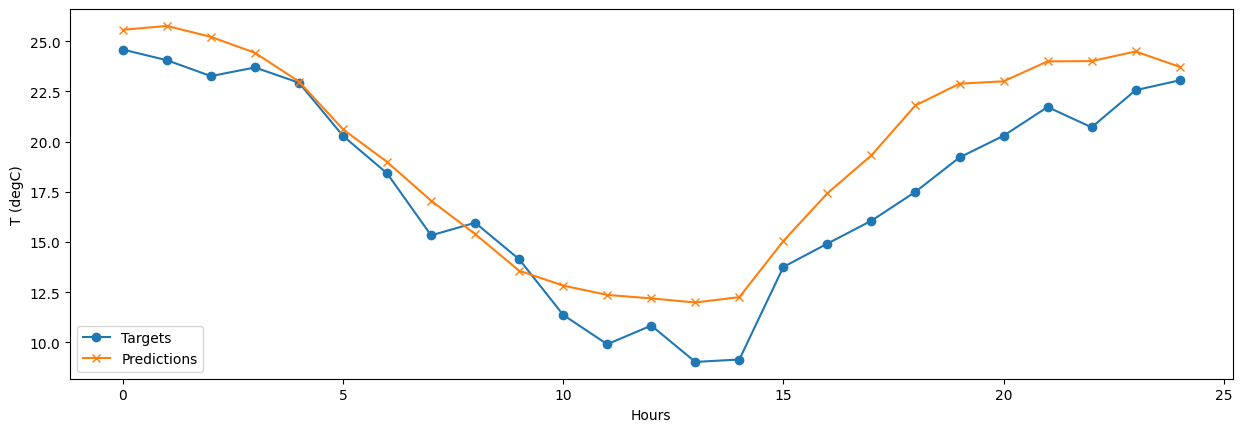
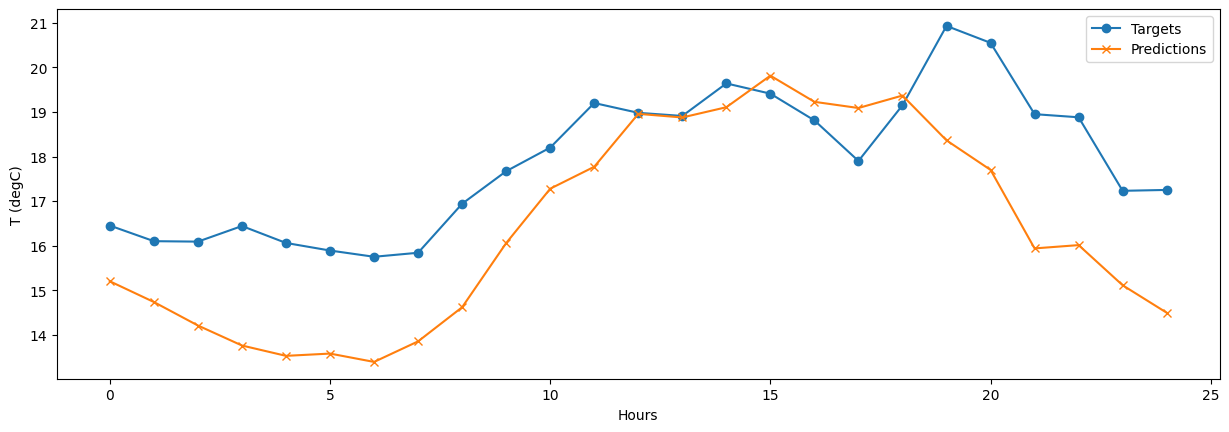
Increase model size of recurrent temperature models

diff --git a/weather_forecasting/temperature/stacked_recurrent.py b/weather_forecasting/temperature/stacked_recurrent.py
@@ -27,8 +27,8 @@ def stacked_recurrent() -> None:
     num_features = train_dataset.element_spec[0].shape[2]
 
     inputs = keras.Input(shape=(settings['window_size'], num_features))
-    x = layers.LSTM(32, recurrent_dropout=0.5, return_sequences=True)(inputs)
-    x = layers.LSTM(32, recurrent_dropout=0.5)(x)
+    x = layers.LSTM(48, recurrent_dropout=0.5, return_sequences=True)(inputs)
+    x = layers.LSTM(48, recurrent_dropout=0.5)(x)
     x = layers.Dropout(0.5)(x)
     outputs = layers.Dense(1)(x)
     model = keras.Model(inputs, outputs)

diff --git a/weather_forecasting/temperature/recurrent_dropout.py b/weather_forecasting/temperature/recurrent_dropout.py
@@ -28,7 +28,7 @@ def recurrent_dropout() -> None:
     num_features = train_dataset.element_spec[0].shape[2]
 
     inputs = keras.Input(shape=(settings['window_size'], num_features))
-    x = layers.LSTM(32, recurrent_dropout=0.25)(inputs)
+    x = layers.LSTM(48, recurrent_dropout=0.25)(inputs)
     x = layers.Dropout(0.5)(x)
     outputs = layers.Dense(1)(x)
     model = keras.Model(inputs, outputs)

diff --git a/weather_forecasting/temperature/recurrent.py b/weather_forecasting/temperature/recurrent.py
@@ -26,7 +26,7 @@ def simple_recurrent() -> None:
     num_features = train_dataset.element_spec[0].shape[2]
 
     inputs = keras.Input(shape=(settings['window_size'], num_features))
-    x = layers.LSTM(16)(inputs)
+    x = layers.LSTM(32)(inputs)
     outputs = layers.Dense(1)(x)
     model = keras.Model(inputs, outputs)
 
